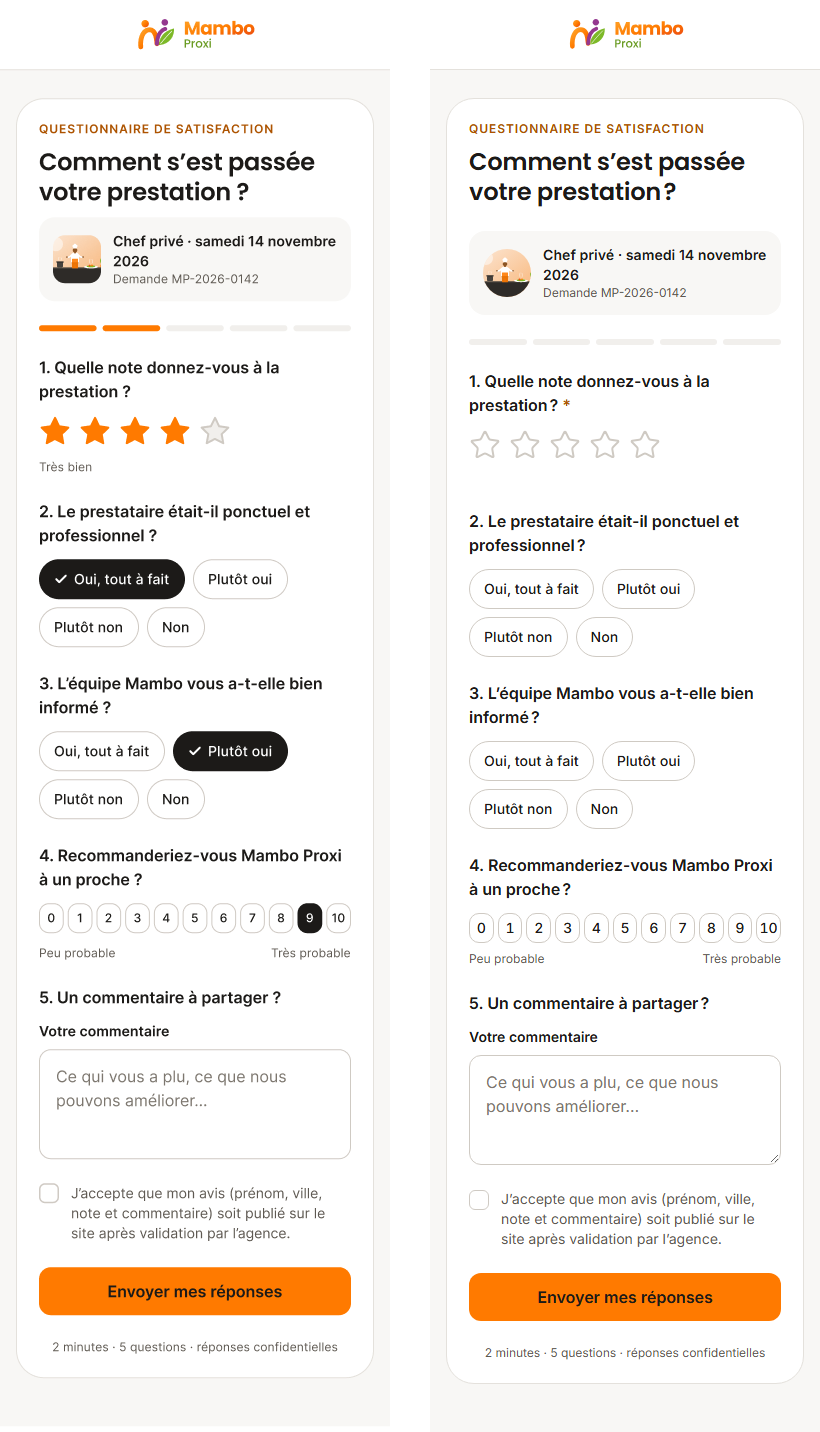
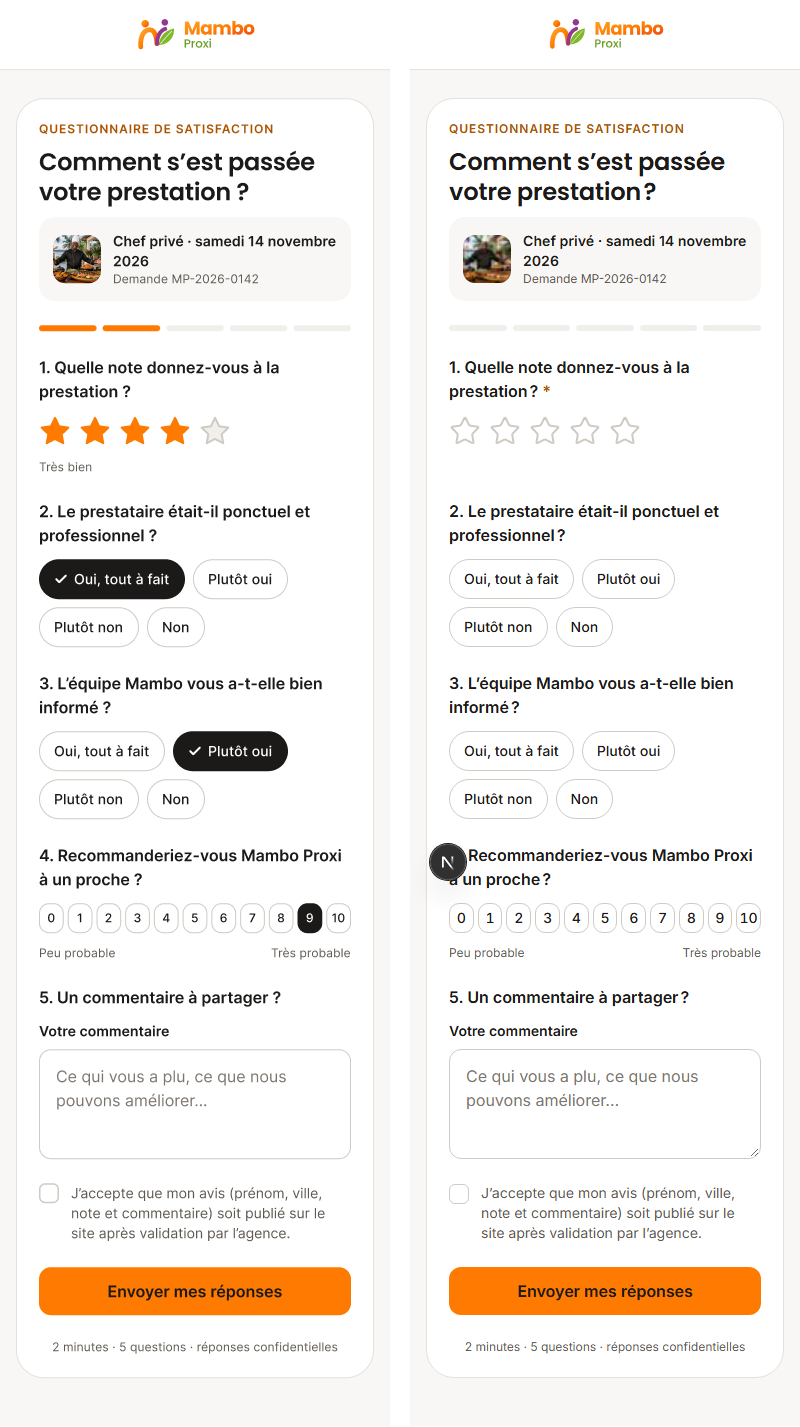
fix(questionnaire): vignette photo au rayon de 12, résumé sous le titre, espacements de la maquette ; vignette du récapitulatif du devis

diff --git a/src/app/[locale]/questionnaire/[token]/page.tsx b/src/app/[locale]/questionnaire/[token]/page.tsx
@@ -80,14 +80,15 @@ export default async function SurveyPage({ params }: Params) {
         <h1 className="font-brand text-[24px] leading-[30px] font-semibold tracking-[-0.01em] text-text-main md:text-[32px] md:leading-10">
           {frenchTypography('Comment s’est passée votre prestation ?')}
         </h1>
-      </div>
-      <div className="flex items-center gap-3 rounded-2xl bg-neutral-50 p-3.5">
-        <Visual visual={survey.service.visual} sizes="48px" className="size-12 shrink-0 rounded-xl" />
-        <div className="flex flex-col">
-          <p className="font-ui text-[14px] leading-5 font-semibold tracking-[0.005em] text-text-main">
-            {[survey.service.name, date].filter(Boolean).join(' · ')}
-          </p>
-          <p className="text-caption text-text-muted">{`Demande ${survey.reference}`}</p>
+        {/* Résumé de la prestation à 10 sous le titre, comme la maquette (`82:9580`). */}
+        <div className="flex items-center gap-3 rounded-2xl bg-neutral-50 p-3.5">
+          <Visual visual={survey.service.visual} sizes="48px" className="size-12 shrink-0 rounded-md" />
+          <div className="flex flex-col">
+            <p className="font-ui text-[14px] leading-5 font-semibold tracking-[0.005em] text-text-main">
+              {[survey.service.name, date].filter(Boolean).join(' · ')}
+            </p>
+            <p className="text-caption text-text-muted">{`Demande ${survey.reference}`}</p>
+          </div>
         </div>
       </div>
       <SurveyForm token={token} questions={survey.questions} />

diff --git a/src/components/forms/quote/quote-summary.tsx b/src/components/forms/quote/quote-summary.tsx
@@ -23,7 +23,7 @@ export function QuoteSummary({ service, onClear, whatsappHref }: QuoteSummaryPro
         <h2 className="font-ui text-[16px] leading-6 font-semibold text-text-main">Votre demande</h2>
         {service ? (
           <div className="flex items-center gap-3 rounded-2xl bg-neutral-50 p-3">
-            <Visual visual={service.visual} sizes="56px" className="size-14 shrink-0 rounded-xl" />
+            <Visual visual={service.visual} sizes="56px" className="size-14 shrink-0 rounded-md" />
             <span className="flex min-w-0 flex-1 flex-col">
               <span className="font-ui text-[15px] leading-6 font-semibold text-text-main">
                 {frenchTypography(service.name)}

diff --git a/src/components/forms/survey-form.tsx b/src/components/forms/survey-form.tsx
@@ -36,7 +36,7 @@ function StarsQuestion({
   const shown = hover ?? value ?? 0;
   const label = shown ? question.options[shown - 1] : null;
   return (
-    <div className="flex flex-col gap-2">
+    <div className="flex flex-col gap-3">
       <div className="flex gap-2" onMouseLeave={() => setHover(null)}>
         {[1, 2, 3, 4, 5].map((rating) => (
           <label
@@ -126,7 +126,7 @@ function NpsQuestion({
 }) {
   const [low, high] = question.options;
   return (
-    <div className="flex flex-col gap-2">
+    <div className="flex flex-col gap-3">
       <div className="flex gap-1 md:gap-1.5">
         {Array.from({ length: 11 }, (_, score) => {
           const selected = value === score;
